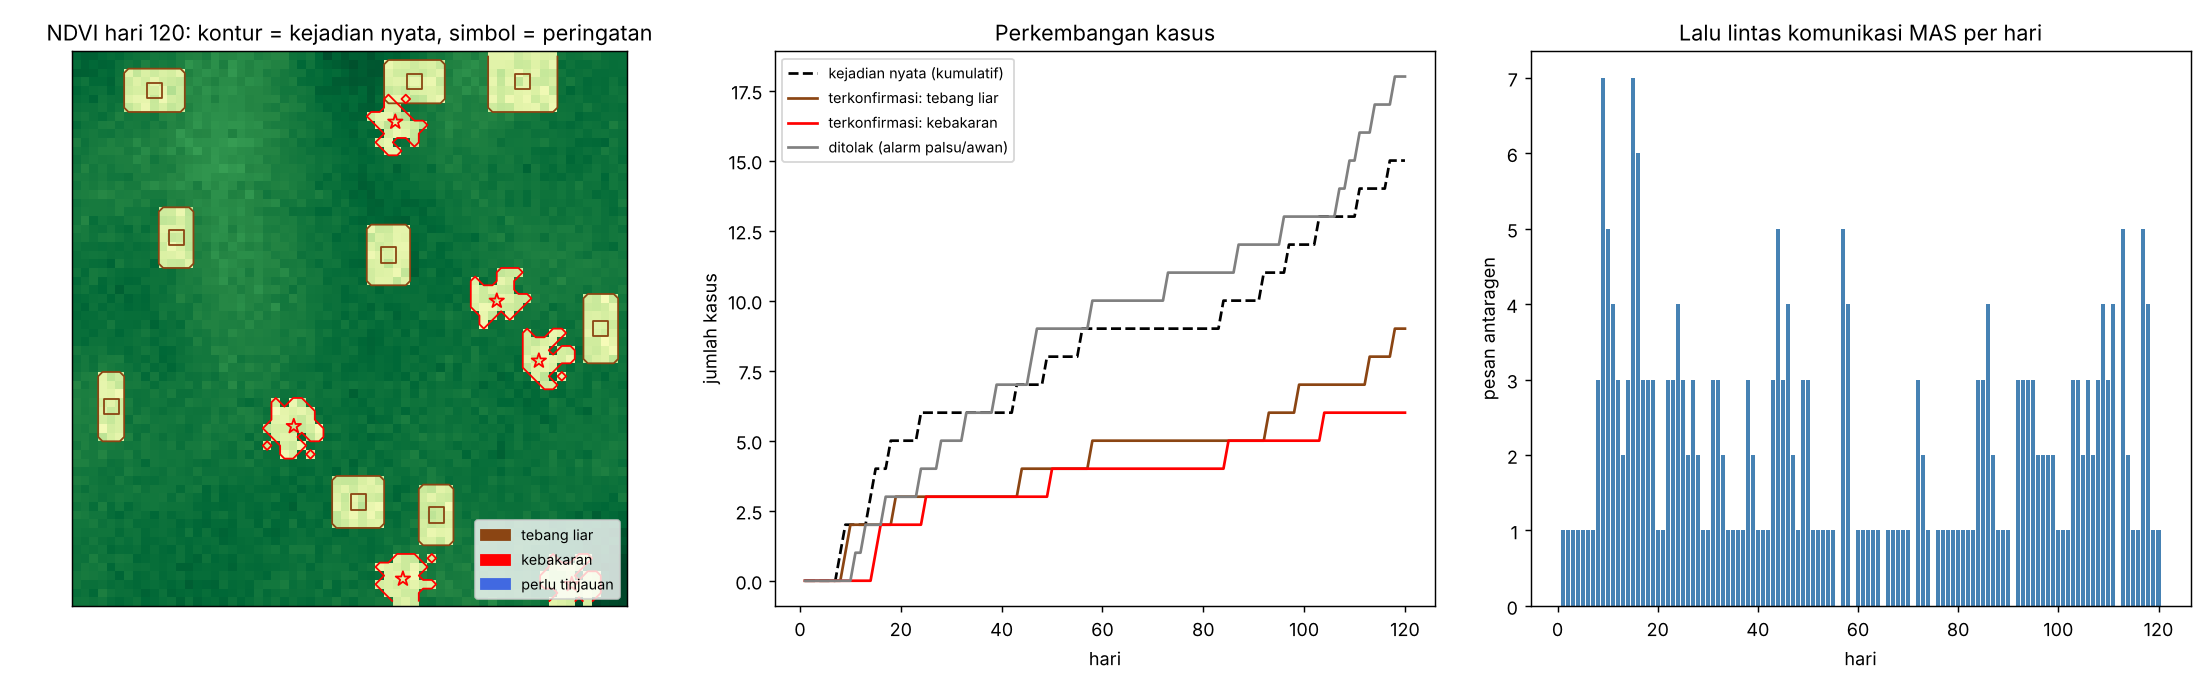
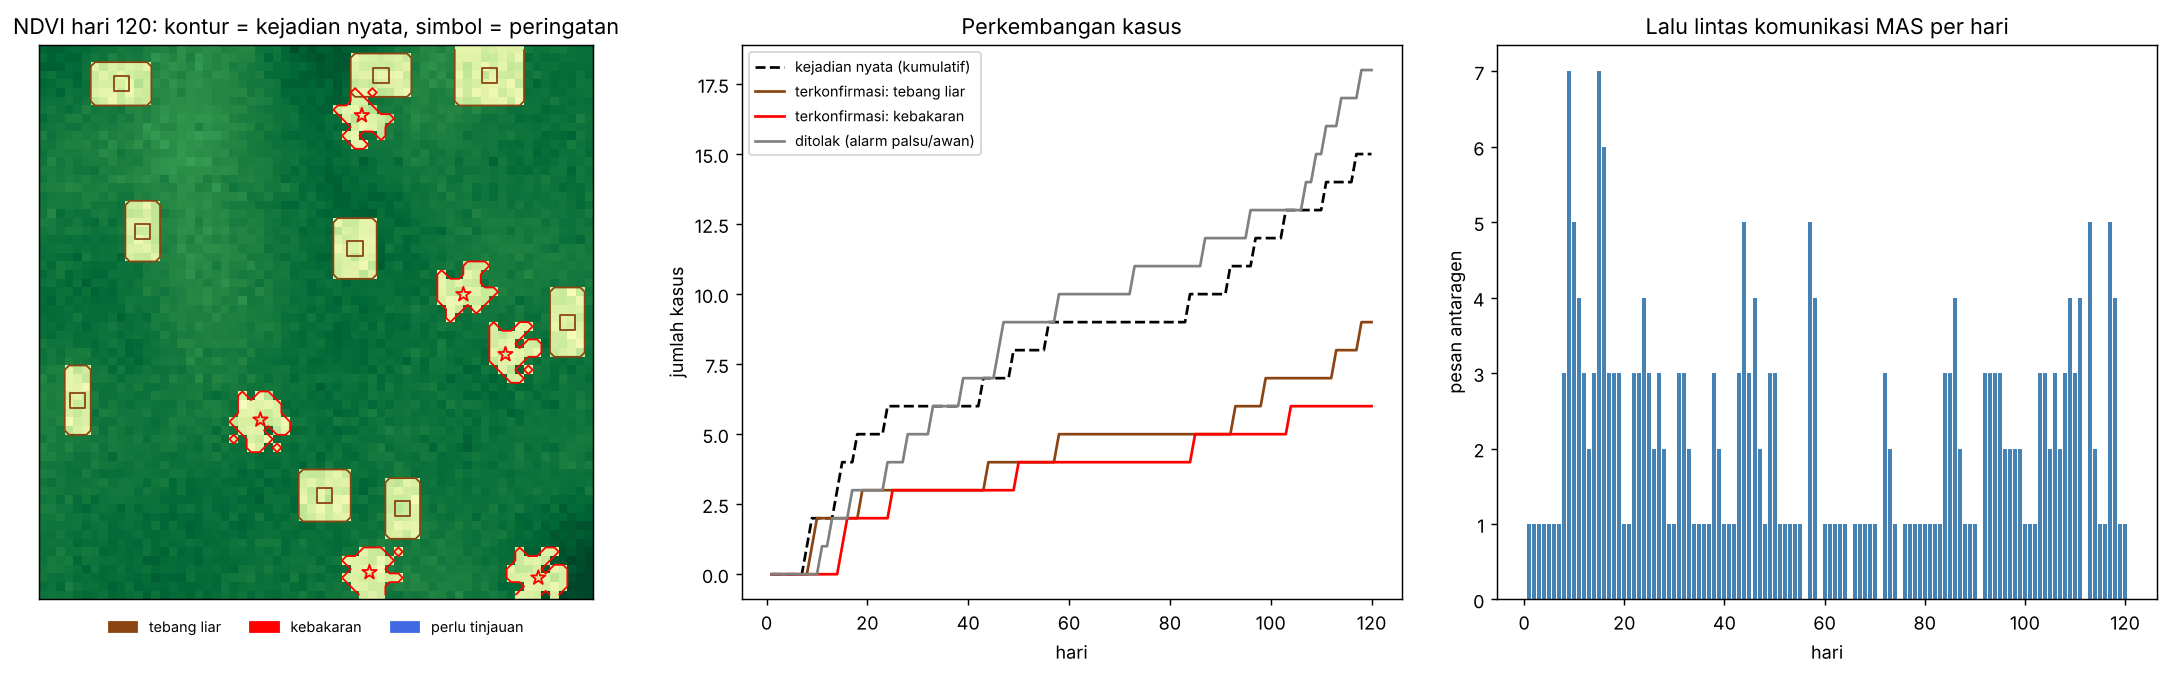
Catat riwayat perluasan area dan pindahkan legenda peta
- alerts.json kini menyimpan initial_area_ha dan riwayat updates
  berisi from_ha/to_ha, sehingga perluasan kebakaran terlihat.
- Legenda peta NDVI dipindah ke bawah peta agar tidak menutupi kejadian.

diff --git a/Multi-Agent-System/deforestation_mas/agents.py b/Multi-Agent-System/deforestation_mas/agents.py
@@ -419,10 +419,11 @@ class Alert:
     alert_day: int
     lat: float
     lon: float
-    area_ha: float
+    initial_area_ha: float  # luas saat peringatan pertama dikirim
+    area_ha: float  # luas terkini (bertambah bila kebakaran meluas)
     confidence: float
     evidence: dict
-    updates: list = field(default_factory=list)
+    updates: list = field(default_factory=list)  # riwayat perluasan: {day, from_ha, to_ha}
 
     def to_dict(self) -> dict:
         return {k: getattr(self, k) for k in self.__dataclass_fields__}
@@ -447,10 +448,17 @@ class NotificationAgent(MonitorAgent):
                 self._alert(case, msg.content["status"])
             elif msg.topic == "update" and case.case_id in self.by_case:
                 alert = self.by_case[case.case_id]
-                alert.area_ha = case.area_px * self.ha_per_px
-                alert.updates.append({"day": self.model.day, "area_ha": alert.area_ha})
+                new_area = case.area_px * self.ha_per_px
+                if new_area <= alert.area_ha:
+                    continue  # luas sudah tercatat (laporan & perluasan tiba di hari yang sama)
+                alert.updates.append({"day": self.model.day, "from_ha": alert.area_ha, "to_ha": new_area})
+                alert.area_ha = new_area
                 if self.verbose:
-                    print(f"  [hari {self.model.day:3d}] UPDATE {alert.alert_id}: area meluas -> {alert.area_ha:.0f} ha")
+                    u = alert.updates[-1]
+                    print(
+                        f"  [hari {self.model.day:3d}] UPDATE  {alert.alert_id}: area meluas "
+                        f"{u['from_ha']:.0f} -> {u['to_ha']:.0f} ha"
+                    )
 
     def _alert(self, case: Case, status: str):
         kind = "uncertain" if status == UNCERTAIN else (case.cause or "unknown")
@@ -465,6 +473,7 @@ class NotificationAgent(MonitorAgent):
             alert_day=self.model.day,
             lat=round(case.centroid[0], 5),
             lon=round(case.centroid[1], 5),
+            initial_area_ha=case.area_px * self.ha_per_px,
             area_ha=case.area_px * self.ha_per_px,
             confidence=case.val_confidence,
             evidence=case.evidence,

diff --git a/Multi-Agent-System/run_simulation.py b/Multi-Agent-System/run_simulation.py
@@ -82,7 +82,8 @@ def plot(model, path: Path):
         ax.scatter(col, r, marker=mk, s=70, facecolors="none" if mk != "x" else colr, edgecolors=colr)
     ax.set_title(f"NDVI hari {model.day}: kontur = kejadian nyata, simbol = peringatan")
     ax.legend(handles=[Patch(color="saddlebrown", label="tebang liar"), Patch(color="red", label="kebakaran"),
-                       Patch(color="royalblue", label="perlu tinjauan")], loc="lower right", fontsize=8)
+                       Patch(color="royalblue", label="perlu tinjauan")],
+              loc="upper center", bbox_to_anchor=(0.5, -0.01), ncol=3, fontsize=8, frameon=False)
     ax.set_xticks([]), ax.set_yticks([])
 
     ax = axes[1]
@@ -101,7 +102,7 @@ def plot(model, path: Path):
     ax.set_title("Lalu lintas komunikasi MAS per hari")
 
     fig.tight_layout()
-    fig.savefig(path, dpi=130)
+    fig.savefig(path, dpi=130, bbox_inches="tight")
     plt.close(fig)
 
 
